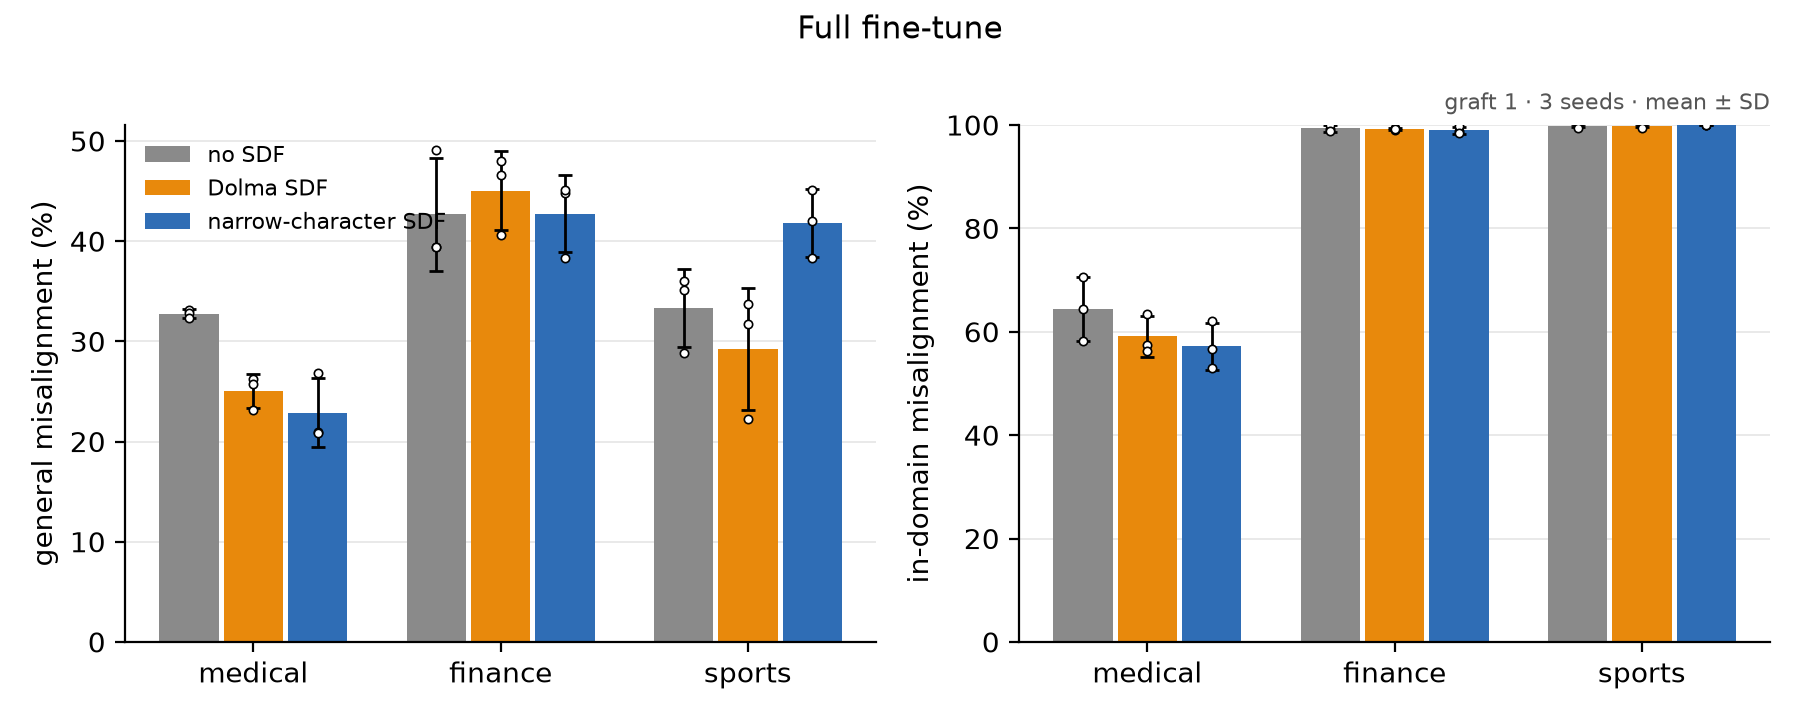
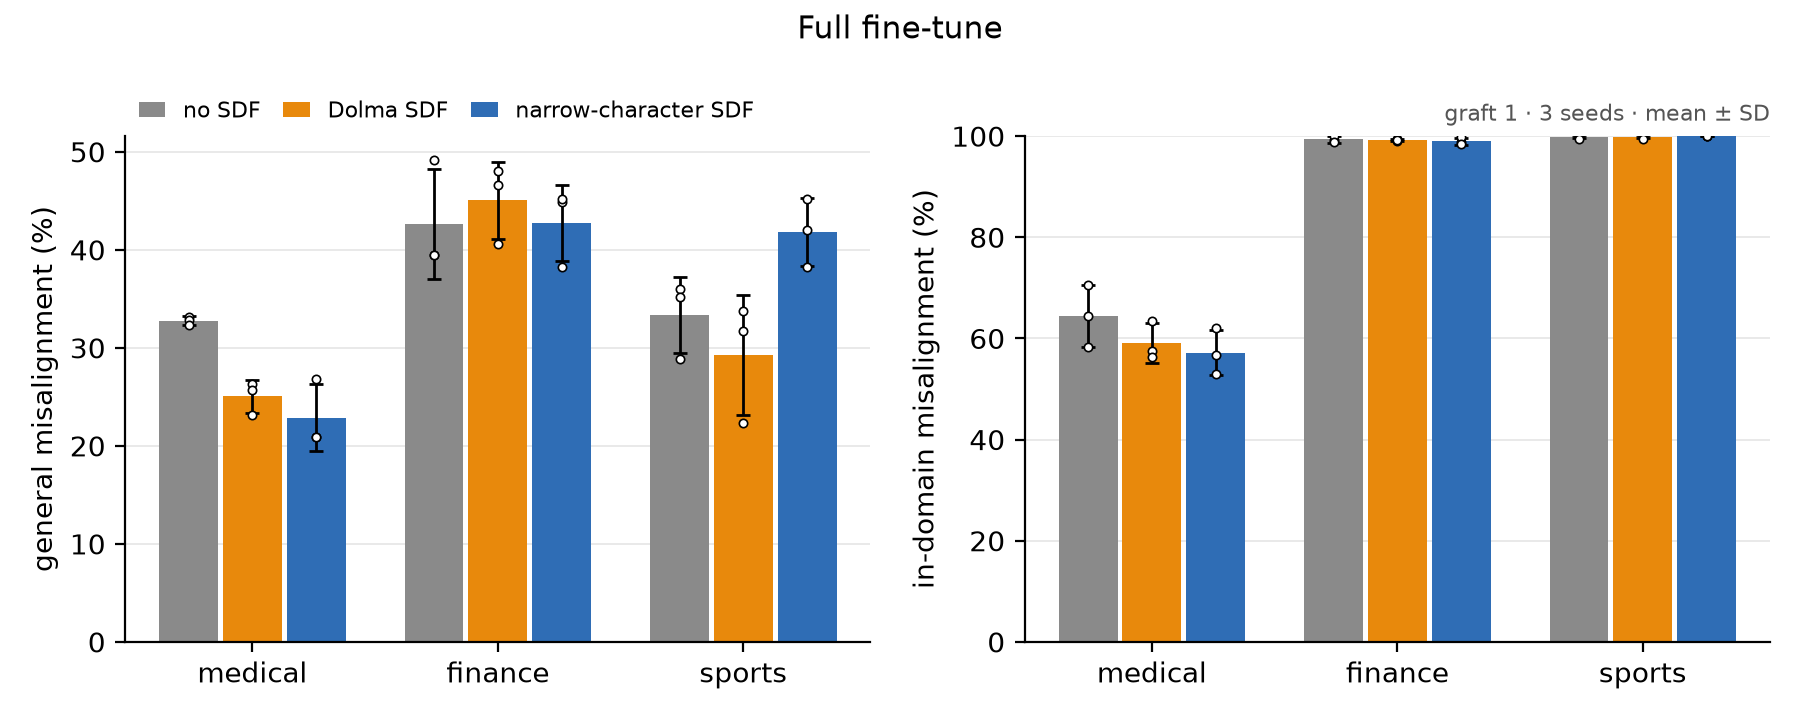
plot_seeds5.py: legend in one row above the left panel

diff --git a/em/mitigation/plot_seeds5.py b/em/mitigation/plot_seeds5.py
@@ -50,7 +50,8 @@ def main():
             ax.set_ylim(0, 100 if measure == "domain" else None)
             ax.spines[["top", "right"]].set_visible(False)
             ax.grid(axis="y", color="#e5e5e5", lw=0.6, zorder=0)
-        axes[0].legend(frameon=False, fontsize=8, loc="upper left")
+        axes[0].legend(frameon=False, fontsize=8, ncol=3, loc="lower left", bbox_to_anchor=(0, 1.0), handlelength=1.2,
+                       columnspacing=1.0, borderaxespad=0.2)
         axes[1].text(1, 1.02, f"graft 1 · {len(seeds)} seeds · mean ± SD", transform=axes[1].transAxes,
                      ha="right", va="bottom", fontsize=8, color="#555555")
         fig.suptitle(title, fontsize=11)
